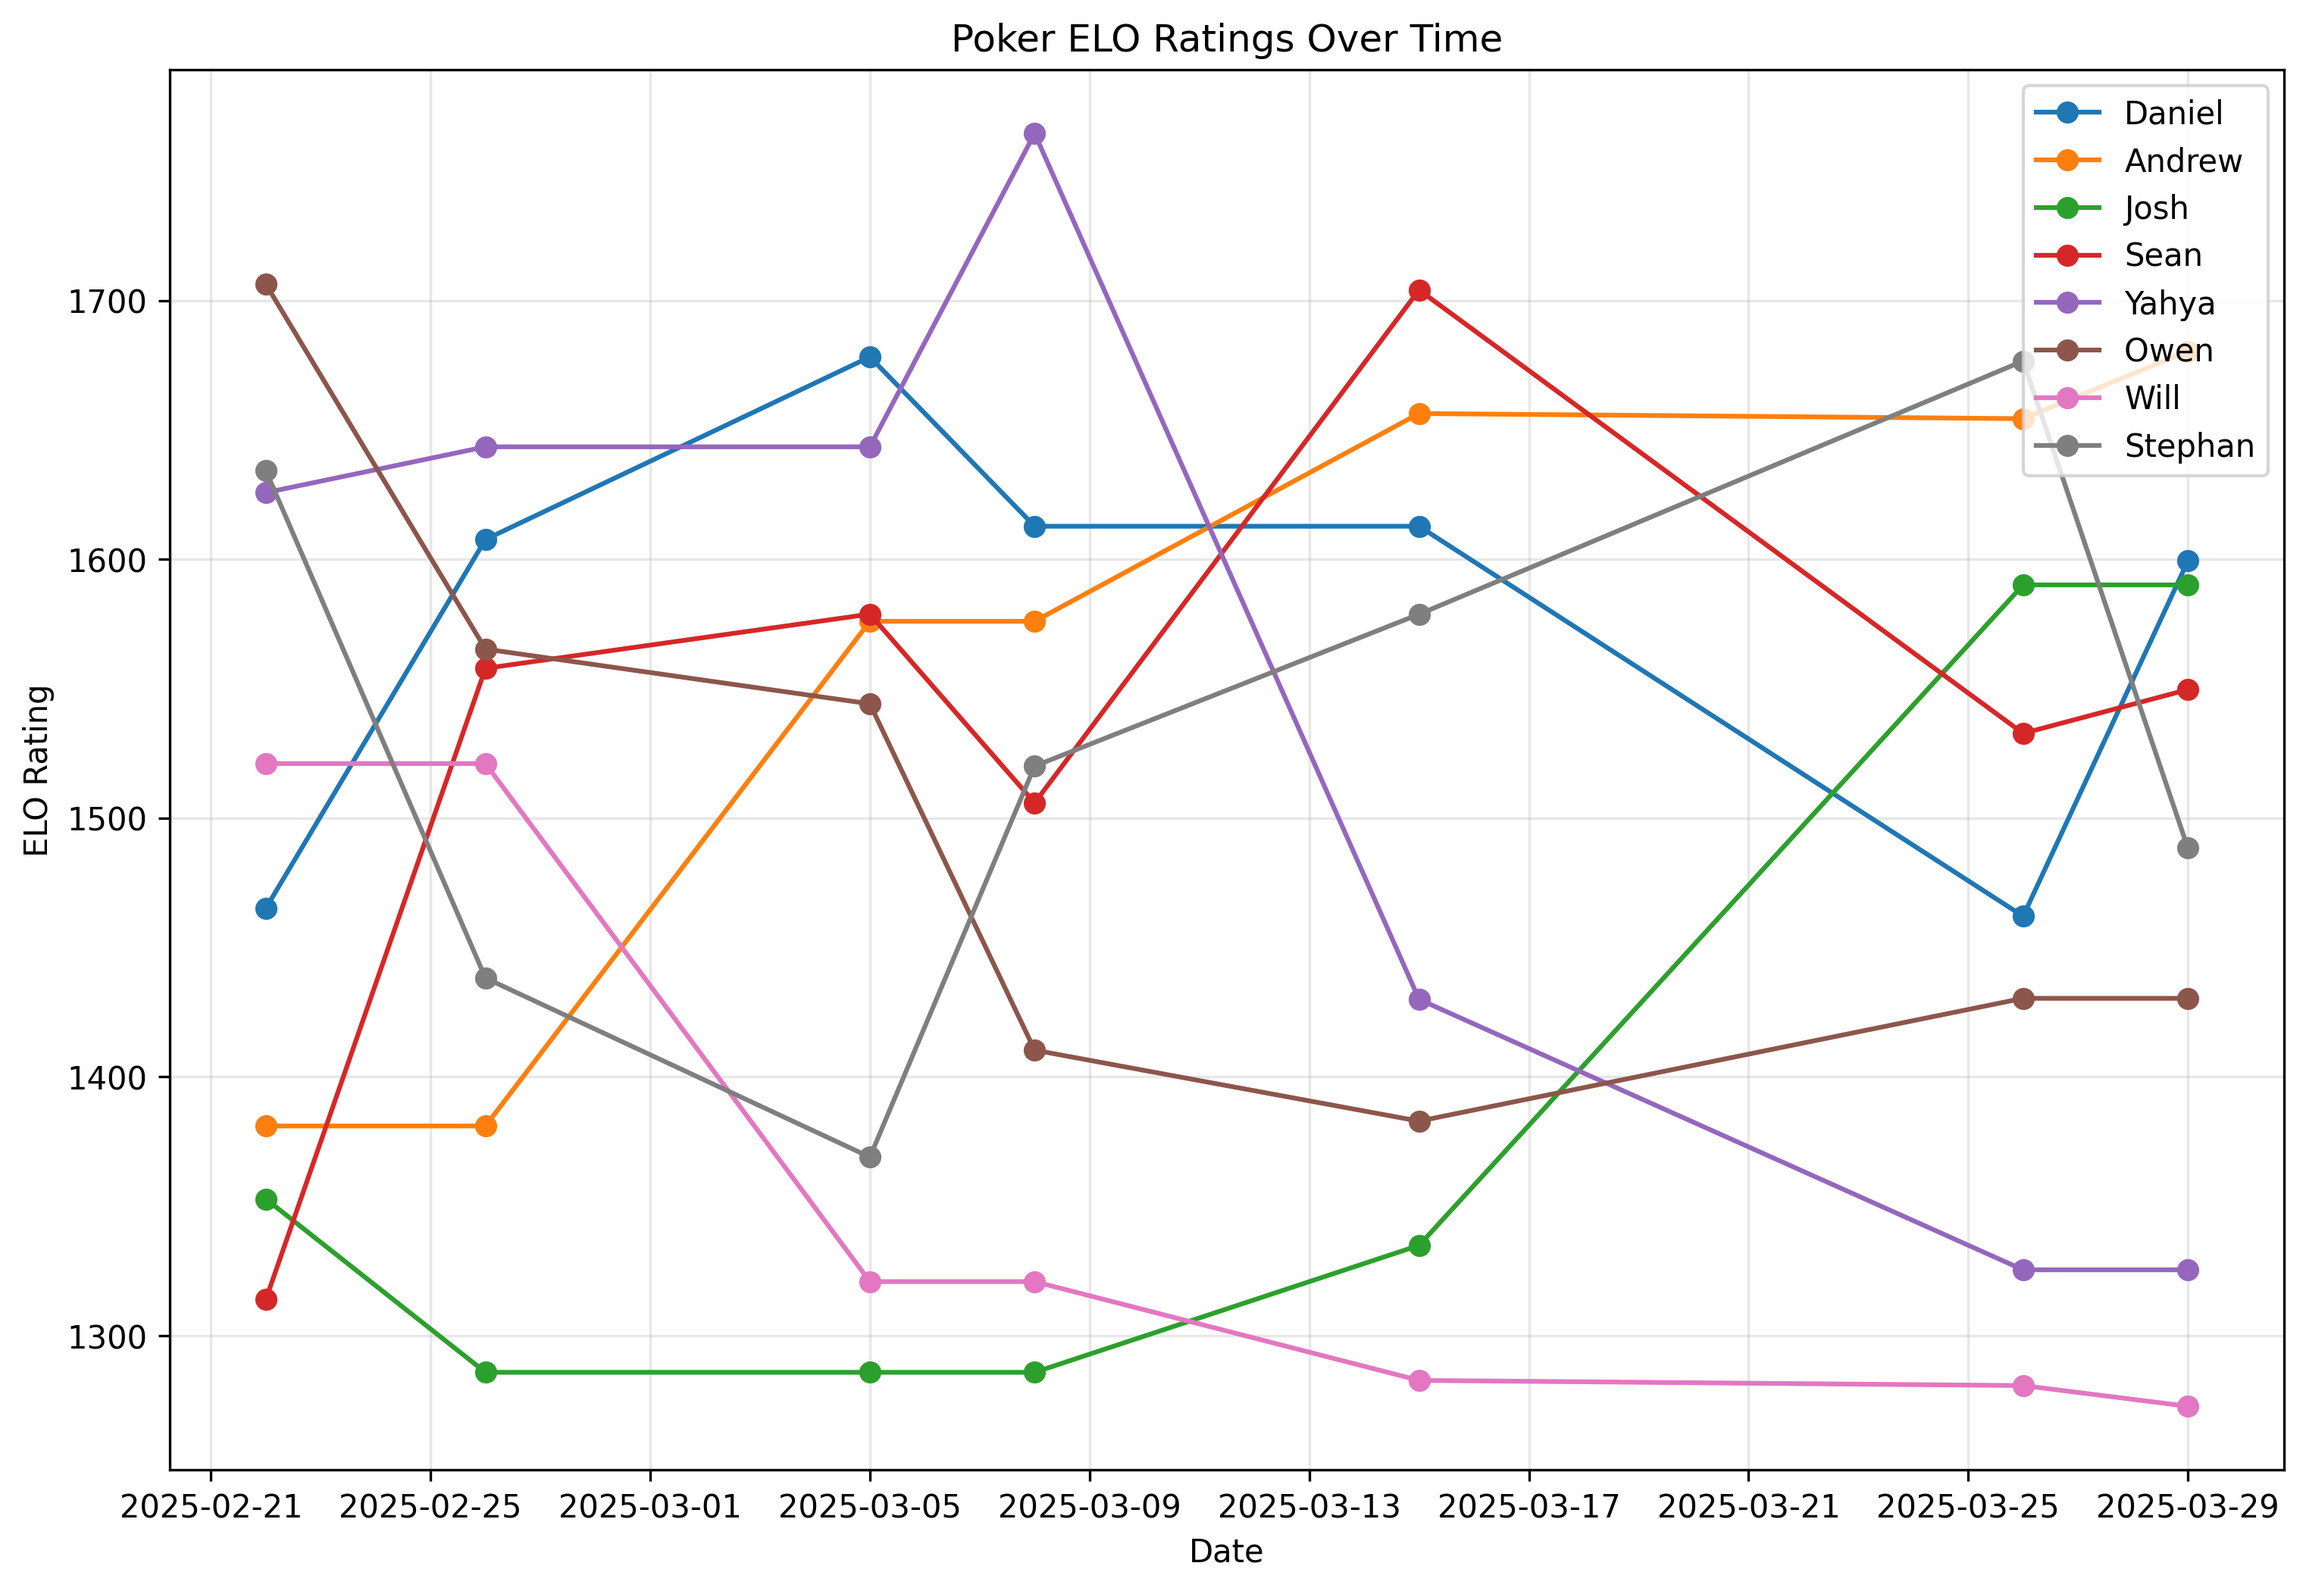
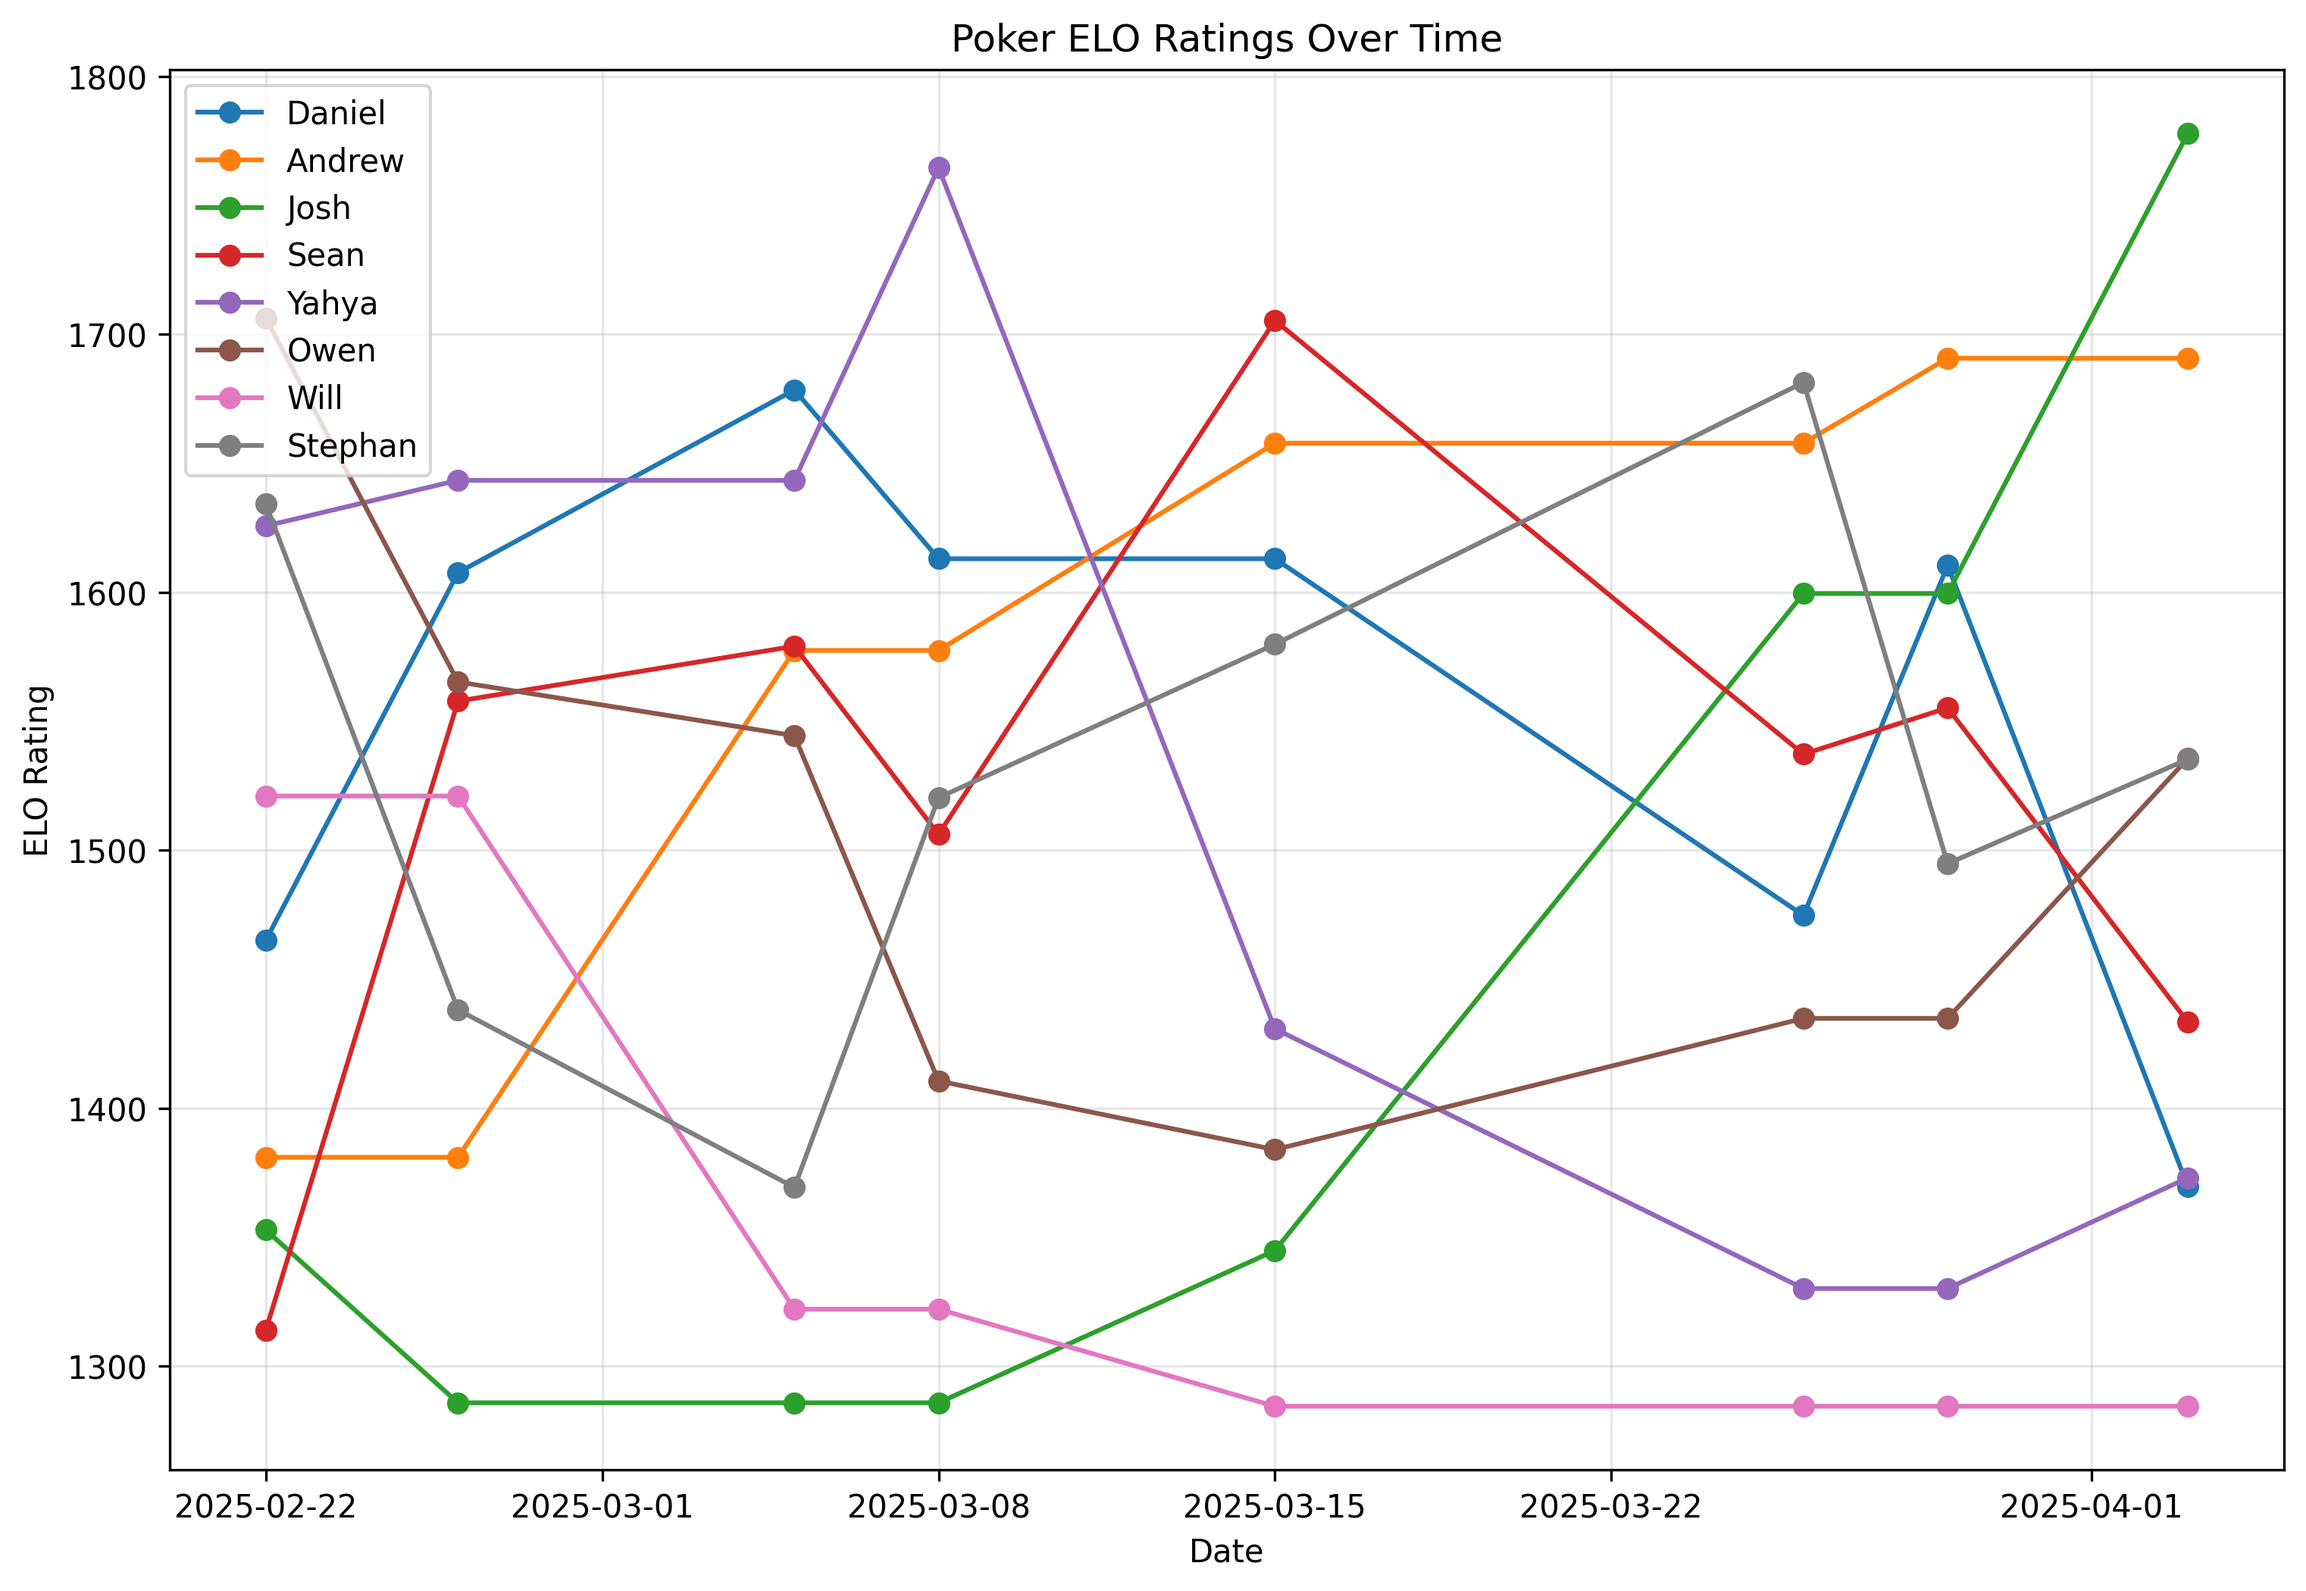
updated

diff --git a/algo.py b/algo.py
@@ -5,8 +5,6 @@ from datetime import datetime, timedelta
 # Initialize player ELO ratings
 INITIAL_ELO = 1500
 K_BASE = 30  # Base K-factor
-DECAY_RATE = 2  # Rating decay per day
-DECAY_THRESHOLD = 10  # Days before decay starts
 
 class PokerELO:
     def __init__(self, players):
@@ -17,22 +15,6 @@ class PokerELO:
         """Calculate expected probability of winning."""
         return 1 / (1 + 10 ** ((Rb - Ra) / 400))
 
-    def apply_decay(self, current_date):
-        """Apply rating decay based on inactivity."""
-        for player in self.elo_ratings:
-            if self.last_played[player] is not None:
-                days_inactive = (current_date - self.last_played[player]).days
-                if days_inactive > DECAY_THRESHOLD:
-                    # Calculate decay based on days inactive
-                    decay_days = days_inactive - DECAY_THRESHOLD
-                    decay_amount = DECAY_RATE * decay_days
-
-                    # Apply decay (reduce rating)
-                    self.elo_ratings[player] -= decay_amount
-
-                    # Ensure rating doesn't go below 1000
-                    self.elo_ratings[player] = max(1000, self.elo_ratings[player])
-
     def update_elo(self, session_results, session_date=None):
         """
         Update ELO based on a session result.
@@ -41,9 +23,6 @@ class PokerELO:
         """
         if session_date is None:
             session_date = datetime.now()
-
-        # Apply decay before updating ratings
-        self.apply_decay(session_date)
 
         players = list(session_results.keys())
         profits = np.array(list(session_results.values()))

diff --git a/main.py b/main.py
@@ -155,7 +155,7 @@ def save_elo_to_json(elo_system, elo_history_df, output_file='elo_ratings.json')
 def parse_args():
     """Parse command line arguments."""
     parser = argparse.ArgumentParser(description='Calculate poker ELO ratings from session results')
-    parser.add_argument('--input', '-i', type=str, default='Poker Spreadsheet - Sheet1 (2).csv',
+    parser.add_argument('--input', '-i', type=str, default='Poker Spreadsheet - Sheet1 (3).csv',
                         help='Input CSV file with poker results')
     parser.add_argument('--output-csv', type=str, default='elo_history.csv',
                         help='Output CSV file for ELO history')
